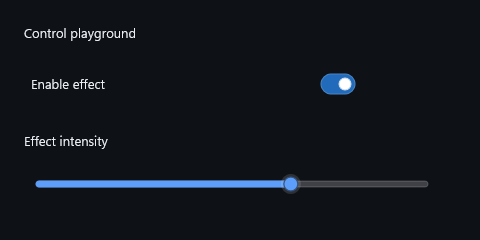
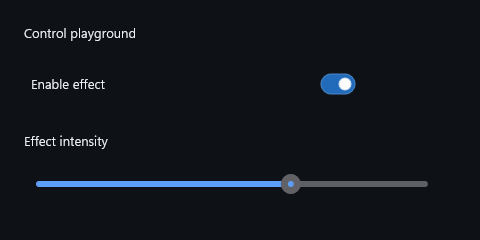
Paint Slider like the Windows volume flyout with a fixed chrome disc.
Keep the 6 DIP track and 48 DIP hit band, but stop growing a translucent halo so hover matches the system flyout thumb.

Changed region(s): [[0.0625, 0.7292, 0.9062, 0.8167]]

diff --git a/src/Controls/DxUi.Controls.cpp b/src/Controls/DxUi.Controls.cpp
@@ -202,17 +202,11 @@ constexpr float kTooltipFallbackLineHeightDip    = 18.0f;
 constexpr float kTooltipPreferredTextHeightDip   = 256.0f;
 constexpr float kMenuBarItemCornerRadiusDip      = 4.0f;
 constexpr float kSliderTrackThicknessDip         = 6.0f;
-constexpr float kSliderThumbDiameterDip          = 14.0f;
+constexpr float kSliderThumbDiameterDip          = 6.0f;
 constexpr float kSliderThumbHoverDiameterDip     = 16.0f;
 constexpr float kSliderThumbPressedDiameterDip   = 12.0f;
-constexpr float kSliderHaloRestDiameterDip       = 20.0f;
-constexpr float kSliderHaloHoverDiameterDip      = 28.0f;
-constexpr float kSliderHaloPressedDiameterDip    = 36.0f;
-constexpr float kSliderHaloRestOpacity           = 0.14f;
-constexpr float kSliderHaloHoverOpacity          = 0.22f;
-constexpr float kSliderHaloPressedOpacity        = 0.32f;
+constexpr float kSliderChromeDiameterDip         = 20.0f;
 constexpr float kSliderTrackInsetDip             = 12.0f;
-constexpr float kSliderThumbStrokeDip            = 1.25f;
 constexpr float kSliderHitExtentDip              = 48.0f;
 constexpr float kSliderTickLengthDip             = 6.0f;
 constexpr float kTabStripHeightDip               = 32.0f;
@@ -565,7 +559,10 @@ void DrawRoundedRect(ControlHost& host, const D2D1_RECT_F& rect, const D2D1_COLO
     const D2D1_RECT_F snappedRect = SnapRectToPixel(host, rect);
     const D2D1_ROUNDED_RECT rounded{snappedRect, radiusDip, radiusDip};
     FillRoundedRectWithColor(host, rounded, fill);
-    DrawRoundedRectWithColor(host, rounded, stroke, 1.0f);
+    if (stroke.a > 0.0f)
+    {
+        DrawRoundedRectWithColor(host, rounded, stroke, 1.0f);
+    }
 }
 
 void DrawTopRoundedAttachedRect(ControlHost& host,
@@ -4615,21 +4612,26 @@ float Slider::ResolveInnerThumbDiameter() const noexcept
 
 float Slider::ResolveHaloDiameter(const D2D1_RECT_F& bounds) const noexcept
 {
-    const float hovered     = std::lerp(kSliderHaloRestDiameterDip, kSliderHaloHoverDiameterDip, _hoverTransition.progress);
-    const float diameter    = std::lerp(hovered, kSliderHaloPressedDiameterDip, _pressTransition.progress);
     const float maxDiameter = (std::max)(0.0f, (std::min)(bounds.right - bounds.left, bounds.bottom - bounds.top) - 2.0f);
-    return (std::min)(diameter, maxDiameter);
+    return (std::min)(kSliderChromeDiameterDip, maxDiameter);
 }
 
-float Slider::ResolveHaloOpacity(const ThemePalette& theme) const noexcept
+D2D1_COLOR_F Slider::ResolveChromeColor(const ThemePalette& theme) const noexcept
 {
-    if (! IsEnabled() || theme.highContrast)
+    if (theme.highContrast)
     {
-        return 0.0f;
+        return IsEnabled() ? theme.borderStrong : theme.disabledText;
     }
 
-    const float hovered = std::lerp(kSliderHaloRestOpacity, kSliderHaloHoverOpacity, _hoverTransition.progress);
-    return std::lerp(hovered, kSliderHaloPressedOpacity, _pressTransition.progress);
+    const float mix        = std::lerp(theme.dark ? 0.32f : 0.10f, theme.dark ? 0.44f : 0.16f, _hoverTransition.progress);
+    const float pressedMix = std::lerp(mix, theme.dark ? 0.52f : 0.22f, _pressTransition.progress);
+    D2D1_COLOR_F chrome    = BlendColor(theme.surfaceBackground, theme.text, pressedMix);
+    if (! IsEnabled())
+    {
+        chrome = BlendColor(chrome, theme.windowBackground, 0.45f);
+    }
+    chrome.a = 1.0f;
+    return chrome;
 }
 
 D2D1_RECT_F Slider::GetTrackRect() const noexcept
@@ -4743,7 +4745,7 @@ void Slider::Paint(ControlHost& host) const
     const D2D1_RECT_F thumb    = GetThumbRect();
     const D2D1_POINT_2F center = GetThumbCenter();
     const D2D1_COLOR_F trackColor =
-        theme.highContrast ? theme.borderDefault : D2D1::ColorF(theme.text.r, theme.text.g, theme.text.b, theme.dark ? 0.22f : 0.18f);
+        theme.highContrast ? theme.borderDefault : D2D1::ColorF(theme.text.r, theme.text.g, theme.text.b, theme.dark ? 0.36f : 0.26f);
     const D2D1_COLOR_F fillColor = enabled ? theme.accent : BlendColor(theme.disabledText, theme.windowBackground, theme.dark ? 0.45f : 0.35f);
     D2D1_COLOR_F thumbFill       = fillColor;
     if (enabled && ! theme.highContrast)
@@ -4751,12 +4753,12 @@ void Slider::Paint(ControlHost& host) const
         thumbFill = BlendColor(theme.accent, theme.accentHover, _hoverTransition.progress);
         thumbFill = BlendColor(thumbFill, theme.accentPressed, _pressTransition.progress);
     }
-    const D2D1_COLOR_F thumbRim = theme.highContrast ? theme.borderStrong : BlendColor(theme.windowBackground, thumbFill, theme.dark ? 0.42f : 0.28f);
     const float trackRadius     = kSliderTrackThicknessDip * 0.5f;
-    DrawRoundedRect(host, track, trackColor, trackColor, trackRadius);
+    const D2D1_COLOR_F noStroke = D2D1::ColorF(0.0f, 0.0f, 0.0f, 0.0f);
+    DrawRoundedRect(host, track, trackColor, noStroke, trackRadius);
     if (fill.right > fill.left && fill.bottom > fill.top)
     {
-        DrawRoundedRect(host, fill, fillColor, fillColor, trackRadius);
+        DrawRoundedRect(host, fill, fillColor, noStroke, trackRadius);
     }
 
     if (! _tickMarks.empty())
@@ -4784,23 +4786,17 @@ void Slider::Paint(ControlHost& host) const
         }
     }
 
-    const float haloOpacity = ResolveHaloOpacity(theme);
-    if (haloOpacity > 0.001f)
-    {
-        const D2D1_RECT_F halo         = GetHaloRect();
-        const float haloRadius         = (halo.right - halo.left) * 0.5f;
-        const D2D1_ELLIPSE haloEllipse = D2D1::Ellipse(center, haloRadius, haloRadius);
-        const D2D1_COLOR_F haloColor   = D2D1::ColorF(theme.text.r, theme.text.g, theme.text.b, haloOpacity);
-        FillEllipseWithColor(host, haloEllipse, haloColor);
-    }
+    const D2D1_RECT_F chrome         = GetHaloRect();
+    const float chromeRadius         = (chrome.right - chrome.left) * 0.5f;
+    const D2D1_ELLIPSE chromeEllipse = D2D1::Ellipse(center, chromeRadius, chromeRadius);
+    FillEllipseWithColor(host, chromeEllipse, ResolveChromeColor(theme));
 
     const float thumbRadius         = (thumb.right - thumb.left) * 0.5f;
     const D2D1_ELLIPSE thumbEllipse = D2D1::Ellipse(center, thumbRadius, thumbRadius);
     FillEllipseWithColor(host, thumbEllipse, thumbFill);
-    DrawEllipseWithColor(host, thumbEllipse, thumbRim, kSliderThumbStrokeDip);
     if (HasFocus() && host.IsKeyboardFocusVisible())
     {
-        PaintFocusRing(host, thumb, thumbRadius);
+        PaintFocusRing(host, chrome, chromeRadius);
     }
 }
 

diff --git a/Tests/Controls/DxUiTests.Animation.cpp b/Tests/Controls/DxUiTests.Animation.cpp
@@ -375,8 +375,8 @@ void TestSliderHoverAndPressAnimationRequestsTicksUntilSettled()
 
     const float restThumbWidth = slider->DebugGetThumbRect().right - slider->DebugGetThumbRect().left;
     const float restHaloWidth  = slider->DebugGetHaloRect().right - slider->DebugGetHaloRect().left;
-    RequireFloatNear(restThumbWidth, 14.0f, 0.01f, "slider inner thumb is 14 DIP at rest");
-    RequireFloatNear(restHaloWidth, 20.0f, 0.01f, "slider painted halo is 20 DIP at rest");
+    RequireFloatNear(restThumbWidth, 6.0f, 0.01f, "slider inner thumb matches the 6 DIP track at rest");
+    RequireFloatNear(restHaloWidth, 20.0f, 0.01f, "slider chrome disc is 20 DIP at rest");
     RequireFloatNear(slider->GetHitBounds().bottom - slider->GetHitBounds().top, 48.0f, 0.01f, "slider hit band stays 48 DIP at rest");
 
     const uint64_t hoverStartTickMs = ::GetTickCount64();
@@ -387,17 +387,18 @@ void TestSliderHoverAndPressAnimationRequestsTicksUntilSettled()
             "slider hover animation reaches an in-flight progress value");
     Require(slider->DebugGetThumbRect().right - slider->DebugGetThumbRect().left > restThumbWidth,
             "slider inner thumb grows while the hover animation is in flight");
-    Require(slider->DebugGetHaloRect().right - slider->DebugGetHaloRect().left > restHaloWidth,
-            "slider painted halo grows while the hover animation is in flight");
+    RequireFloatNear(slider->DebugGetHaloRect().right - slider->DebugGetHaloRect().left,
+                     restHaloWidth,
+                     0.01f,
+                     "slider chrome disc does not scale while the inner thumb grows");
     Require(slider->Tick(host, hoverStartTickMs + 140u), "slider hover animation requests one final repaint when the transition settles");
     RequireFloatNear(slider->DebugGetHoverAnimationProgress(), 1.0f, 0.0001f, "slider hover animation settles at fully hovered progress");
     RequireFloatNear(slider->DebugGetThumbRect().right - slider->DebugGetThumbRect().left, 16.0f, 0.01f, "slider inner thumb settles at 16 DIP when hovered");
-    RequireFloatNear(slider->DebugGetHaloRect().right - slider->DebugGetHaloRect().left, 28.0f, 0.01f, "slider painted halo settles at 28 DIP when hovered");
-    RequireFloatNear(slider->GetHitBounds().bottom - slider->GetHitBounds().top, 48.0f, 0.01f, "slider hit band does not grow with the painted halo");
+    RequireFloatNear(slider->DebugGetHaloRect().right - slider->DebugGetHaloRect().left, 20.0f, 0.01f, "slider chrome disc stays 20 DIP when hovered");
+    RequireFloatNear(slider->GetHitBounds().bottom - slider->GetHitBounds().top, 48.0f, 0.01f, "slider hit band does not grow with the painted thumb");
     Require(! slider->Tick(host, hoverStartTickMs + 200u), "settled slider hover animation stops requesting ticks");
 
     const float hoverThumbWidth     = slider->DebugGetThumbRect().right - slider->DebugGetThumbRect().left;
-    const float hoverHaloWidth      = slider->DebugGetHaloRect().right - slider->DebugGetHaloRect().left;
     const uint64_t pressStartTickMs = ::GetTickCount64();
     Require(slider->OnMouseDown(host, D2D1::Point2F(110.0f, 24.0f), false, 0), "slider press starts a pointer gesture");
     Require(slider->Tick(host, pressStartTickMs + 40u), "slider press animation advances on the first tick");
@@ -405,8 +406,10 @@ void TestSliderHoverAndPressAnimationRequestsTicksUntilSettled()
             "slider press animation reaches an in-flight progress value");
     Require(slider->DebugGetThumbRect().right - slider->DebugGetThumbRect().left < hoverThumbWidth,
             "slider inner thumb shrinks while the press animation is in flight");
-    Require(slider->DebugGetHaloRect().right - slider->DebugGetHaloRect().left > hoverHaloWidth,
-            "slider painted halo grows while the press animation is in flight");
+    RequireFloatNear(slider->DebugGetHaloRect().right - slider->DebugGetHaloRect().left,
+                     20.0f,
+                     0.01f,
+                     "slider chrome disc stays 20 DIP while pressed so it does not read as the 48 DIP hit band");
     Require(slider->OnMouseUp(host, D2D1::Point2F(110.0f, 24.0f), false, 0), "slider press ends the pointer gesture");
 }
 

diff --git a/Tests/Controls/DxUiTests.NewControls.cpp b/Tests/Controls/DxUiTests.NewControls.cpp
@@ -965,8 +965,8 @@ void TestSliderTouchFriendlyGeometry()
     const D2D1_RECT_F halo  = slider.DebugGetHaloRect();
     const D2D1_RECT_F hit   = slider.GetHitBounds();
     RequireFloatNear(track.bottom - track.top, 6.0f, 0.01f, "slider track is 6 DIP thick");
-    RequireFloatNear(thumb.right - thumb.left, 14.0f, 0.01f, "slider inner thumb is 14 DIP at rest");
-    RequireFloatNear(halo.right - halo.left, 20.0f, 0.01f, "slider painted halo is 20 DIP at rest");
+    RequireFloatNear(thumb.right - thumb.left, 6.0f, 0.01f, "slider inner thumb matches the 6 DIP track at rest");
+    RequireFloatNear(halo.right - halo.left, 20.0f, 0.01f, "slider chrome disc is 20 DIP");
     Require(track.left >= 11.5f && (220.0f - track.right) >= 11.5f, "slider track insets leave room for the inner thumb");
     RequireFloatNear(hit.bottom - hit.top, 48.0f, 0.01f, "slider pointer band is 48 DIP in a 48 DIP control");
     RequireFloatNear((hit.top + hit.bottom) * 0.5f, 24.0f, 0.01f, "slider pointer band stays centered on the track");

diff --git a/include/DxUi/DxUi.h b/include/DxUi/DxUi.h
@@ -2155,7 +2155,7 @@ private:
     [[nodiscard]] D2D1_POINT_2F GetThumbCenter() const noexcept;
     [[nodiscard]] float ResolveInnerThumbDiameter() const noexcept;
     [[nodiscard]] float ResolveHaloDiameter(const D2D1_RECT_F& bounds) const noexcept;
-    [[nodiscard]] float ResolveHaloOpacity(const ThemePalette& theme) const noexcept;
+    [[nodiscard]] D2D1_COLOR_F ResolveChromeColor(const ThemePalette& theme) const noexcept;
     [[nodiscard]] D2D1_RECT_F GetTrackRect() const noexcept;
     [[nodiscard]] D2D1_RECT_F GetThumbRect() const noexcept;
     [[nodiscard]] D2D1_RECT_F GetInnerThumbRect() const noexcept;

diff --git a/Specs/UI/UI_ControlsAndLayout.md b/Specs/UI/UI_ControlsAndLayout.md
@@ -44,34 +44,31 @@ the same DIP radius, selected radius and gap constants.
 
 ### Slider
 
-Painted chrome and pointer geometry are independent. The halo is ink only. Hit testing may be larger than any
+Painted chrome and pointer geometry are independent. The gray chrome disc is ink only. Hit testing may be larger than any
 painted disc so a fat finger can grab the thumb. Neither layer is sized from the other.
 
 ```
-  cross-axis (horizontal slider, rest, DIP)
+  cross-axis (horizontal slider, DIP)
 
   48  ─ ─ ─ ─ ─ ─ ─ ─ ─ ─ ─ ─ ─ ─ ─ ─ ─ ─ ─ ─  hit band (unpainted)
-  36                                           pressed halo (paint)
-  28                                           hovered halo (paint)
-  20  · · · · · · · · · · · · · · · · · · · ·  rest halo (paint)
+  20  ████████ chrome disc (fixed) ████████
   16                                           hovered inner thumb
-  14  ████████ inner thumb (accent fill) ████
   12                                           pressed inner thumb
-   6  ══════════════════════════════════════    capsule track
+   6  ══════════════════════════════════════    track and rest inner thumb
    0
 ```
 
 | Layer | Rest | Hover | Pressed | Role |
 | --- | --- | --- | --- | --- |
-| Track | 6 DIP capsule | — | — | Paint. Inset 12 DIP from each end so the inner thumb stays inside the control. |
-| Inner thumb | 14 DIP | 16 DIP | 12 DIP | Paint. Accent-filled disc with a rim mixed toward the window background. Pressed shrinks. |
-| Halo | 20 DIP at 0.14 | 28 DIP at 0.22 | 36 DIP at 0.32 | Paint only. Translucent disc of theme text color. Hidden when disabled or high contrast. Clamped to the control bounds minus 2 DIP. |
+| Track | 6 DIP capsule | — | — | Paint. Fill and remainder share that thickness with no extra stroke. Inset 12 DIP from each end. |
+| Inner thumb | 6 DIP | 16 DIP | 12 DIP | Paint. Accent fill matching the track. Rest equals the track so the chrome reads as a gray ring; hover grows the inner until a thin chrome rim remains. |
+| Chrome disc | 20 DIP | 20 DIP | 20 DIP | Paint. Opaque gray disc under the inner thumb. It does not scale with hover or press and is not the hit target. |
 | Hit band | 48 DIP | 48 DIP | 48 DIP | Pointer only. Centered on the track. Clipped to control bounds when the control is shorter. Not painted. |
 | Thumb grab | 24 DIP radius from thumb center | same | same | Pointer only. Half the hit band. A contact in this circle drags from the current value; a contact on the track outside it seeks. |
 
 Keyboard and `RequestValue` ease the painted inner thumb to the new value; pointer drags and `SetValue` snap.
 Reduced motion snaps every visual. Keyboard steps still use `SetStep` / `SetLargeStep`. Consumers that need a
-fat-finger target size the control to at least the 48 DIP hit band; they do not enlarge the halo to match.
+fat-finger target size the control to at least the 48 DIP hit band; they do not enlarge the chrome disc to match.
 
 Each control also requires accurate usage documentation in `docs/controls.md`. Code changes review affected docs
 and regenerate changed visuals into `docs/gallery` under [the documentation contract](../Core/Core_Documentation.md).

diff --git a/docs/controls.md b/docs/controls.md
@@ -19,7 +19,7 @@ Set bounds, visibility, enabled state and content before preparation. Mutate con
 | ProgressBar | Set minimum, maximum and value; `SetIndeterminate(true)` requires host animation ticks. |
 | PageIndicator | Set `SetPageCount` / `SetSelectedIndex` for a bottom strip of dots. `SetOnSelected` reports user clicks and Left/Right/Home/End. Hidden and not hittable when there are fewer than two pages. Strip height is `kStripHeightDip` (20). |
 | ThroughputGraph | Feed timestamped samples through its public sample API; keep history within its configured limits. Use the rendering tests for populated series and bands. |
-| Slider | Set range/value and handle `SetOnChange(SliderChange)` for preview, commit and cancel. Painted chrome is a 6 DIP track, a 14 DIP inner thumb (16 hover, 12 pressed) and a translucent halo (20 / 28 / 36 DIP). Pointer hit testing is an unpainted 48 DIP band; a press within 24 DIP of the thumb center drags, otherwise the track seeks. Hover, press and keyboard steps animate; `SetValue` snaps. |
+| Slider | Set range/value and handle `SetOnChange(SliderChange)` for preview, commit and cancel. Painted chrome is a 6 DIP track, a 20 DIP gray disc, and an accent inner thumb (6 DIP rest, 16 hover, 12 pressed). Pointer hit testing is an unpainted 48 DIP band; a press within 24 DIP of the thumb center drags, otherwise the track seeks. Hover, press and keyboard steps animate; `SetValue` snaps. |
 | Toolbar | Panel for command controls; populate buttons with labels, bounds and actions. |
 | MenuBar | Supply `MenuBarItem` records through `SetItems`; handle `SetOnOpenItem` and hover changes. Native menu operations require the HWND integration. |
 | TabControl | Add populated tab pages with `AddTab`; handle selection, close-request, closed and reorder callbacks as needed. |

diff --git a/Specs/UI/UI_InputAndAccessibility.md b/Specs/UI/UI_InputAndAccessibility.md
@@ -48,8 +48,8 @@ ComboBox/PopupLayer overlays or host-owned menu services.
 
 Slider::SetOnChange reports Preview while dragging and exactly one Commit on accepted release, including an
 unchanged final value. Capture loss, Escape, hiding or detach reports Cancel and restores the initial value. Keyboard
-steps report Commit. Hover and press ease painted chrome only: a 6 DIP track, inner thumb 14→16 DIP hover and 16→12 DIP
-pressed, halo 20→28→36 DIP. The 48 DIP hit band and 24 DIP grab radius do not change with hover or press. Keyboard steps and
+steps report Commit. Hover and press ease painted chrome only: a 6 DIP track, inner thumb 6→16 DIP hover and 16→12 DIP
+pressed, inside a fixed 20 DIP gray chrome disc. The 48 DIP hit band and 24 DIP grab radius do not change with hover or press. Keyboard steps and
 RequestValue ease the painted thumb to the committed value, then stop requesting ticks. Pointer drags and SetValue snap
 the painted position so live acknowledgement cannot lag. Reduced motion snaps every visual and requests no slider ticks.
 SetValue updates from

diff --git a/CHANGELOG.md b/CHANGELOG.md
@@ -2,9 +2,10 @@
 
 ## Unreleased
 
-- Restore `Slider` Fluent paint: a 6 DIP capsule track, 14/16/12 DIP inner thumb, and 20/28/36 DIP translucent halo,
-  independently of the unpainted 48 DIP fat-finger hit band and 24 DIP grab radius. Embedded `DispatchPointer`
-  synthesizes control double-click (word selection) using the system interval and a 16 DIP slop.
+- Paint `Slider` like the Windows volume flyout: a 6 DIP capsule track (fill and remainder the same thickness), a fixed
+  20 DIP gray chrome disc, and an accent inner thumb that matches the track at rest and grows to 16 DIP on hover
+  (12 DIP pressed). Pointer hit testing stays an unpainted 48 DIP band with a 24 DIP grab radius. Embedded
+  `DispatchPointer` synthesizes control double-click (word selection) using the system interval and a 16 DIP slop.
 
 - Release the embedded surface on `SetVisible(false)` and zero-extent `Prepare`: `surfaceBytes` reports 0 while
   hidden or zero-sized, and the next visible sized preparation reallocates exactly one surface with identical pixels.
